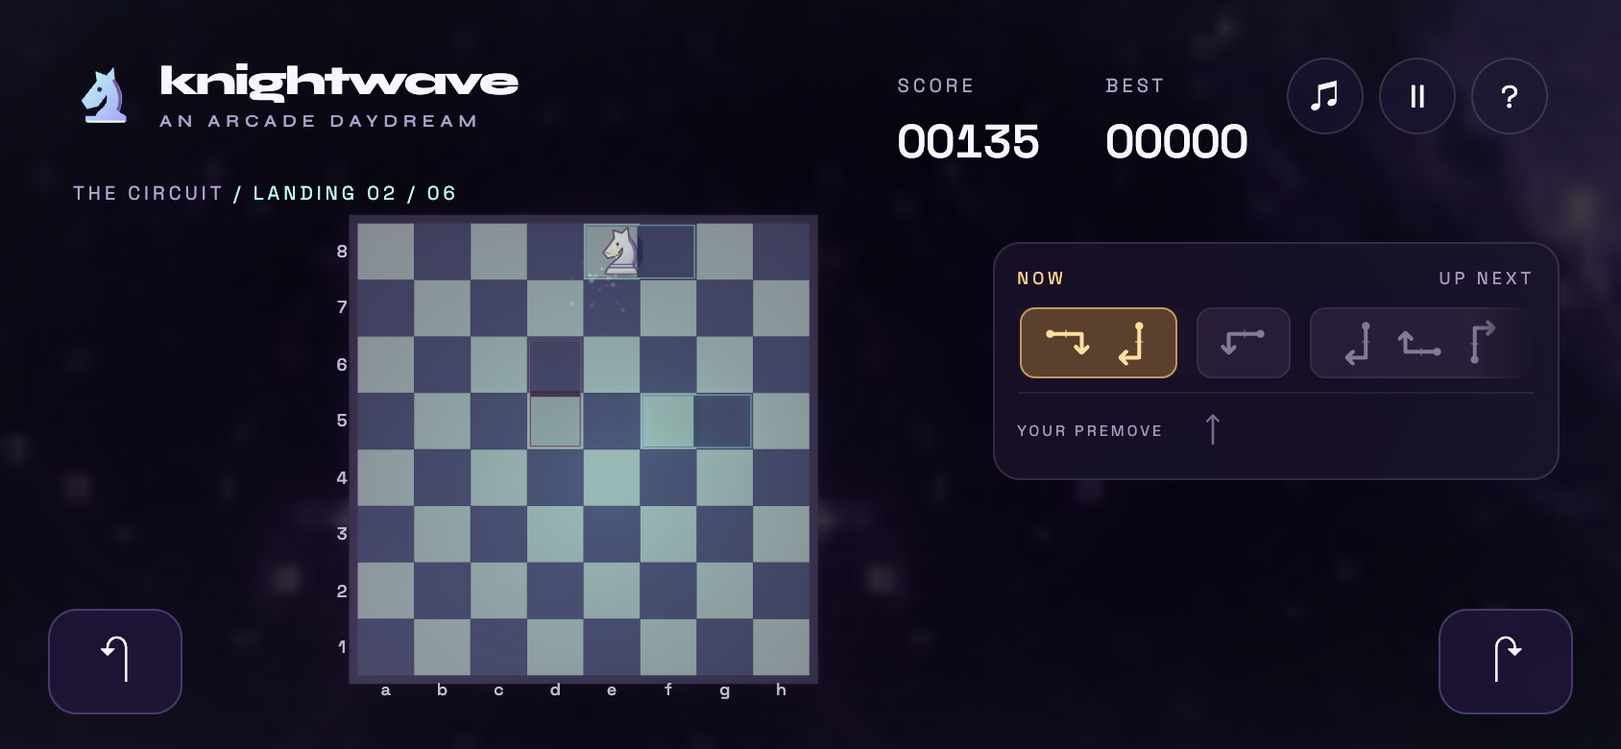
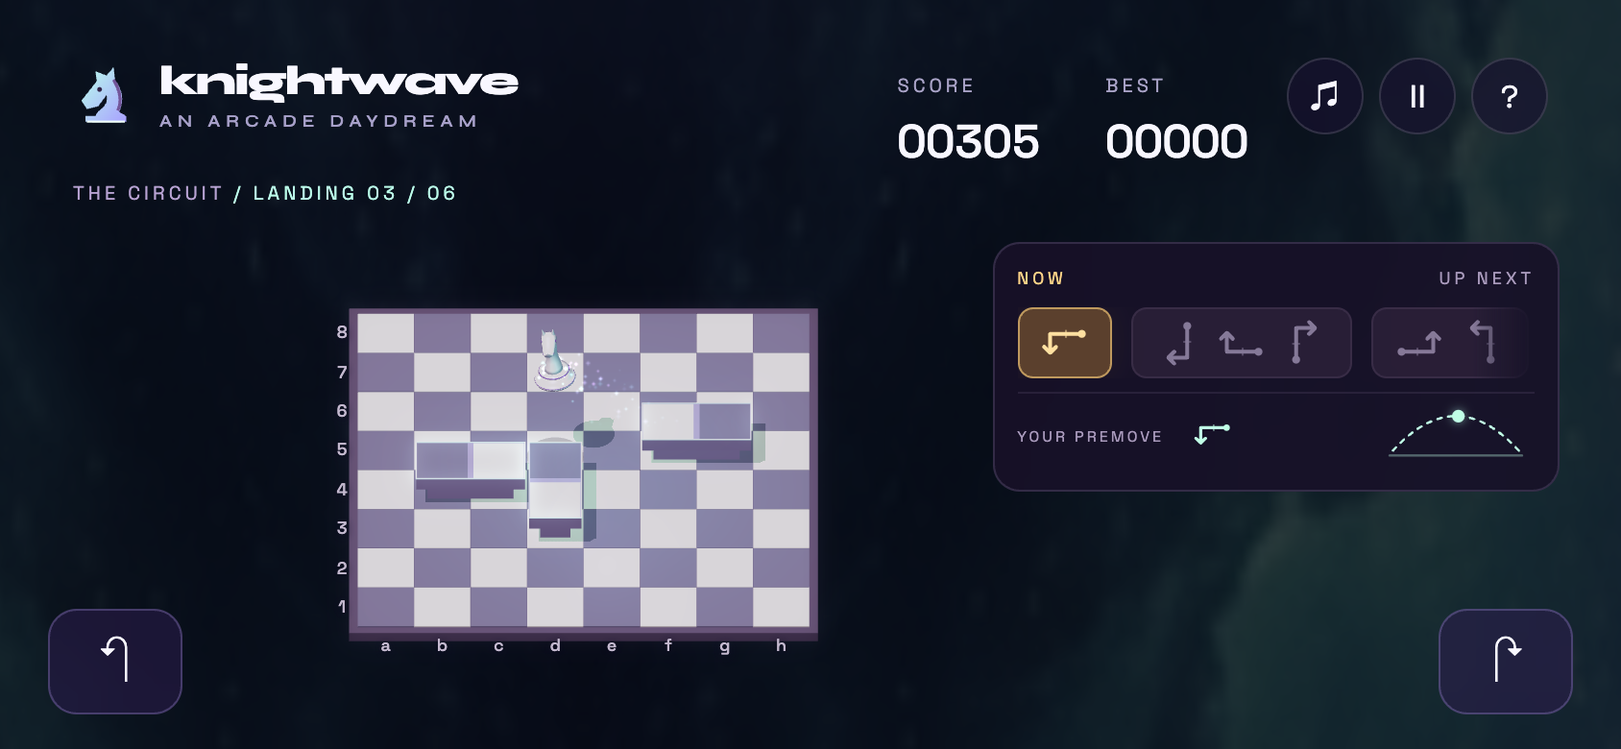
feat(game): restore 3D depth and make airtime visible

diff --git a/src/main.js b/src/main.js
@@ -1,7 +1,7 @@
 import './style.css';
 import { Engine } from '@babylonjs/core/Engines/engine';
 import { Scene } from '@babylonjs/core/scene';
-import { Vector3 } from '@babylonjs/core/Maths/math.vector';
+import { Vector3, Matrix } from '@babylonjs/core/Maths/math.vector';
 import { Color3, Color4 } from '@babylonjs/core/Maths/math.color';
 import { Mesh } from '@babylonjs/core/Meshes/mesh';
 import { MeshBuilder } from '@babylonjs/core/Meshes/meshBuilder';
@@ -9,6 +9,8 @@ import { StandardMaterial } from '@babylonjs/core/Materials/standardMaterial';
 import { Camera } from '@babylonjs/core/Cameras/camera';
 import { FreeCamera } from '@babylonjs/core/Cameras/freeCamera';
 import { HemisphericLight } from '@babylonjs/core/Lights/hemisphericLight';
+import { DirectionalLight } from '@babylonjs/core/Lights/directionalLight';
+import { ShadowGenerator } from '@babylonjs/core/Lights/Shadows/shadowGenerator';
 import { PointLight } from '@babylonjs/core/Lights/pointLight';
 import { GlowLayer } from '@babylonjs/core/Layers/glowLayer';
 import { TransformNode } from '@babylonjs/core/Meshes/transformNode';
@@ -18,16 +20,17 @@ import { knightDestination, isLandingMatch, flightPoint, flightHeading, rotateGr
 import { BOARD_MIN, BOARD_MAX, BOARD_CELLS, BOARD_CENTER, CELL_SIZE, createCircuit } from './board.js';
 import { PLATFORM_TOP, CRUISE_SPEED, platformStage, platformPose } from './platforms.js';
 import { moveGlyphs } from './moves.js';
+import { createKnight } from './knight.js';
 import { Soundtrack } from './audio.js';
 
 const asset=name=>`${import.meta.env.BASE_URL}${name}`;
 const app=document.querySelector('#app');
-app.innerHTML=`<canvas id="world" aria-label="Knightwave overhead chess circuit"></canvas>
+app.innerHTML=`<canvas id="world" aria-label="Knightwave 3D chess circuit"></canvas>
 <div id="ui" class="start-mode">
   <header class="topbar"><div class="brand"><img class="brand-icon" src="${asset('knight-mark.svg')}" alt="" width="35" height="35"><div class="brand-name">knightwave<small>AN ARCADE DAYDREAM</small></div></div><div class="stats"><div class="stat"><small>SCORE</small><strong id="score">00000</strong></div><div class="stat"><small>BEST</small><strong id="best">00000</strong></div></div><div class="utility"><button class="icon-button" id="sound" aria-label="Mute soundtrack" title="Sound on/off (M)">♫</button><button class="icon-button hidden" id="pause" aria-label="Pause game" title="Pause (Esc)">Ⅱ</button><button class="icon-button" id="help" aria-label="How to play" title="How to play">?</button></div></header>
   <section class="center-card" id="start-screen"><div class="eyebrow">CHESS MOVES. COSMIC GROOVES.</div><h1>Ride the<span>knightwave.</span></h1><p class="intro">A little chess. A little foresight.<br>Read the moves. Find the rhythm.<br>Bring your knight back home.</p><button class="primary" id="start">Let’s ride <span>↗</span></button><div class="start-caption">SOUND ON. SHOULDERS DOWN. CHASE THE GLOW.</div></section>
   <div class="run-label hidden" id="run-label">THE CIRCUIT <span> / </span> <span id="jump-label">JUMP 01</span></div>
-  <section id="move-queue" class="move-queue hidden" aria-label="Upcoming knight moves"><div class="queue-heading"><span class="queue-now">NOW</span><span>UP NEXT</span></div><div class="queue-window"><div id="queue-track" class="queue-track"></div></div><div class="premove"><span>YOUR PREMOVE</span><div id="queued-moves" class="queued-moves"></div></div></section>
+  <section id="move-queue" class="move-queue hidden" aria-label="Upcoming knight moves"><div class="queue-heading"><span class="queue-now">NOW</span><span>UP NEXT</span></div><div class="queue-window"><div id="queue-track" class="queue-track"></div></div><div class="premove"><span>YOUR PREMOVE</span><div id="queued-moves" class="queued-moves"></div><svg id="flight-indicator" class="flight-indicator" viewBox="0 0 100 40" role="img" aria-label="Jump progress"><path class="flight-ground" d="M8 33H92"/><path class="flight-arc" d="M10 30Q50 -14 90 30"/><circle id="flight-dot" cx="10" cy="30" r="4"/></svg></div></section>
   <div id="board-labels" class="board-labels" aria-hidden="true"></div>
   <div class="flash" id="flash"></div>
   <div class="touch-controls" id="touch-controls"><button class="turn-button" id="left" aria-label="Rotate knight left">↶</button><button class="turn-button" id="right" aria-label="Rotate knight right">↷</button></div>
@@ -41,14 +44,16 @@ try{engine=new Engine(canvas,true,{preserveDrawingBuffer:false,stencil:true,powe
 engine.setHardwareScalingLevel(1/Math.min(window.devicePixelRatio||1,2));
 scene.imageProcessingConfiguration.toneMappingEnabled=true;scene.imageProcessingConfiguration.exposure=.85;
 scene.clearColor=new Color4(.028,.014,.07,1);scene.fogMode=Scene.FOGMODE_EXP2;scene.fogColor=new Color3(.08,.025,.16);scene.fogDensity=0;
-const camera=new FreeCamera('fixed overhead board',new Vector3(BOARD_CENTER*CELL_SIZE,64,BOARD_CENTER*CELL_SIZE-.0001),scene);camera.minZ=.1;camera.maxZ=1200;camera.mode=Camera.ORTHOGRAPHIC_CAMERA;camera.setTarget(new Vector3(BOARD_CENTER*CELL_SIZE,0,BOARD_CENTER*CELL_SIZE));
-const hemi=new HemisphericLight('soft light',new Vector3(-.4,1,-.4),scene);hemi.intensity=.65;hemi.diffuse=new Color3(.76,.83,1);hemi.groundColor=new Color3(.25,.08,.43);
+const camera=new FreeCamera('fixed front chessboard',new Vector3(BOARD_CENTER*CELL_SIZE,48,BOARD_CENTER*CELL_SIZE-50),scene);camera.minZ=.1;camera.maxZ=1200;camera.mode=Camera.ORTHOGRAPHIC_CAMERA;camera.setTarget(new Vector3(BOARD_CENTER*CELL_SIZE,0,BOARD_CENTER*CELL_SIZE));
+const hemi=new HemisphericLight('soft light',new Vector3(-.4,1,-.4),scene);hemi.intensity=.55;hemi.diffuse=new Color3(.76,.83,1);hemi.groundColor=new Color3(.25,.08,.43);
 const rim=new PointLight('mint rim',new Vector3(0,8,-4),scene);rim.diffuse=new Color3(.3,1,.83);rim.intensity=.45;rim.range=38;
+const sun=new DirectionalLight('soft key light',new Vector3(.35,-1,.3),scene);sun.position.set(-18,40,-18);sun.intensity=.85;sun.diffuse=Color3.FromHexString('#fff2db');
+const shadows=new ShadowGenerator(2048,sun);shadows.usePercentageCloserFiltering=true;shadows.filteringQuality=ShadowGenerator.QUALITY_MEDIUM;shadows.bias=.001;shadows.normalBias=.035;shadows.setDarkness(.3);
 const glow=new GlowLayer('neon',scene,{mainTextureRatio:.4,blurKernelSize:32});glow.intensity=.65;
 function material(name,hex,emission=0){const m=new StandardMaterial(name,scene);m.diffuseColor=Color3.FromHexString(hex);m.emissiveColor=m.diffuseColor.scale(emission);m.specularColor=new Color3(.06,.06,.09);return m;}
 const palette=['#ff72c1','#bf7bff','#8c83ff','#70bdff','#75efee','#a8f9c2','#f8e99c'];
 const roadMats=palette.map((c,i)=>material('rainbow '+i,c,.25));
-const mint=material('mint neon','#8dffe1',1.6),pink=material('pink neon','#fd8bdf',1.5),gold=material('landing gold','#ffb642',.65),white=material('porcelain','#e9fff5',.22),purple=material('mane','#583680',.3);
+const mint=material('mint neon','#8dffe1',1.6),pink=material('pink neon','#fd8bdf',1.5),gold=material('landing gold','#ffb642',.65),white=material('porcelain','#efece5',.06),purple=material('mane','#583680',.3);
 
 // Dedicated sky artwork stays behind the 3D course and planets.
 const sky=MeshBuilder.CreateSphere('world sky',{diameter:1800,segments:32,sideOrientation:Mesh.BACKSIDE},scene);
@@ -62,14 +67,10 @@ const halo=MeshBuilder.CreateTorus('moon halo',{diameter:28,thickness:.28,tessel
 const scenery=new TransformNode('cosmos',scene);planet.parent=planetRing.parent=moon.parent=halo.parent=scenery;
 function box(name,w,h,d,x,y,z,mat,parent){const m=MeshBuilder.CreateBox(name,{width:w,height:h,depth:d},scene);m.position.set(x,y,z);m.material=mat;if(parent)m.parent=parent;return m;}
 
-// The upright vector piece remains recognizable in the overhead chess view.
-const knight=new TransformNode('knight',scene),spinner=new TransformNode('spin',scene);spinner.parent=knight;
-const FORWARD_YAW=Math.PI/2;spinner.rotation.y=FORWARD_YAW;
-const pieceRoot=new TransformNode('readable knight',scene);pieceRoot.parent=knight;
-const piece=MeshBuilder.CreatePlane('chess knight artwork',{width:3.2,height:3.6},scene);piece.parent=pieceRoot;piece.rotation.x=Math.PI/2;piece.position.y=.2;
-const pieceMaterial=new StandardMaterial('porcelain knight artwork',scene),pieceTexture=new Texture(asset('knight-piece.svg'),scene);pieceTexture.hasAlpha=true;
-pieceMaterial.diffuseTexture=pieceTexture;pieceMaterial.emissiveTexture=pieceTexture;pieceMaterial.diffuseColor=Color3.Black();pieceMaterial.emissiveColor=Color3.White();pieceMaterial.disableLighting=true;pieceMaterial.useAlphaFromDiffuseTexture=true;pieceMaterial.backFaceCulling=false;piece.material=pieceMaterial;glow.addExcludedMesh(piece);
-const shadow=MeshBuilder.CreateDisc('hover shadow',{radius:1.1,tessellation:30},scene);shadow.rotation.x=Math.PI/2;shadow.material=material('shadow','#170d37',.1);shadow.material.alpha=.38;shadow.position.y=.035;
+const {knight,spinner}=createKnight(scene,white,purple,mint);
+const FORWARD_YAW=Math.PI/2;
+for(const mesh of knight.getChildMeshes()){shadows.addShadowCaster(mesh);glow.addExcludedMesh(mesh);}
+const shadow=MeshBuilder.CreateDisc('hover shadow',{radius:1.1,tessellation:30},scene);shadow.rotation.x=Math.PI/2;shadow.material=material('shadow','#170d37',.1);shadow.material.alpha=.4;shadow.material.disableLighting=true;shadow.material.diffuseColor=Color3.Black();shadow.material.emissiveColor=Color3.FromHexString('#1a1525');shadow.position.y=.035;glow.addExcludedMesh(shadow);
 const jumpSparkles=new ParticleSystem('jump star glints',500,scene);
 jumpSparkles.particleTexture=new Texture(asset('sparkle.svg'),scene);
 jumpSparkles.emitter=knight.position;
@@ -88,20 +89,21 @@ el('best').textContent=String(best).padStart(5,'0');
 const board=new TransformNode('finite chessboard',scene),boardWidth=BOARD_CELLS*CELL_SIZE;
 const boardCenter=BOARD_CENTER*CELL_SIZE;
 const frame=material('chessboard frame','#46364e',.18);
-box('floating board',boardWidth+1.2,.35,boardWidth+1.2,boardCenter,-2.28,boardCenter,frame,board);
+box('floating board',boardWidth+1.2,.8,boardWidth+1.2,boardCenter,-2.5,boardCenter,frame,board);
 const lightSquare=material('ivory chess square','#ddd4bc',.12),darkSquare=material('plum chess square','#655a76',.06);
 const cells=[];
 for(let z=BOARD_MIN;z<=BOARD_MAX;z++)for(let x=BOARD_MIN;x<=BOARD_MAX;x++){
   const square=box('chess square',CELL_SIZE-.025,.08,CELL_SIZE-.025,x*CELL_SIZE,-2.065,z*CELL_SIZE,(x+z)%2===0?darkSquare:lightSquare,board);
-  square.metadata={x,z};cells.push(square);glow.addExcludedMesh(square);
+  square.receiveShadows=true;square.metadata={x,z};cells.push(square);glow.addExcludedMesh(square);
 }
-const platformMaterials={occupied:material('raised chess platform','#4b5768',.12),falling:material('departed surface','#48263c',.15)};
-const platformAccent=material('platform edge','#89abb6',.35);
+const platformMaterials={occupied:material('raised chess platform','#8a779d',.10),falling:material('departed surface','#48263c',.15)};
+const platformAccent=material('platform edge','#b0e4d5',.55);
 const fallingAccent=material('departed platform rails','#ae6288',.25);
 const platforms=circuit.map((stop,i)=>{
   const root=new TransformNode('platform '+i,scene);root.position.set(stop.x*CELL_SIZE,PLATFORM_TOP,stop.z*CELL_SIZE);root.rotation.y=stop.heading;root.parent=board;
   const length=stop.runLength*CELL_SIZE;
-  const deck=box('raised platform deck',3.7,.68,length+3.7,0,-.34,length/2,platformMaterials.occupied,root);
+  const deck=box('raised platform deck',3.7,1.05,length+3.7,0,-.525,length/2,platformMaterials.occupied,root);
+  box('platform lift column',2.15,1.65,length+2.1,0,-1.86,length/2,platformMaterials.occupied,root);
   const trims=[];
   for(const side of [-1,1])trims.push(box('platform glow rail',.07,.07,length+3.7,side*1.86,.03,length/2,mint,root));
   for(const z of [-1.85,length+1.85])trims.push(box('platform end rail',3.78,.07,.075,0,.03,z,mint,root));
@@ -109,8 +111,9 @@ const platforms=circuit.map((stop,i)=>{
   for(let row=0;row<=stop.runLength;row++){
     const offset=rotateGrid({x:0,z:row},stop.heading),light=(stop.x+offset.x+stop.z+offset.z)%2!==0;
     const square=box('raised chess square',3.58,.025,3.58,0,.01,row*CELL_SIZE,light?lightSquare:darkSquare,root);
-    surfaces.push(square);glow.addExcludedMesh(square);
+    square.receiveShadows=true;surfaces.push(square);glow.addExcludedMesh(square);
   }
+  for(const mesh of root.getChildMeshes())shadows.addShadowCaster(mesh);
   return {root,deck,trims,surfaces,stage:null,age:0};
 });
 function updatePlatforms(dt,reset=false){
@@ -139,9 +142,10 @@ function fitBoardCamera(){
   const halfHeight=halfWidth/aspect;
   const offsetX=(.5-centerX)*2*halfWidth,offsetY=(centerY-.5)*2*halfHeight;
   camera.orthoLeft=-halfWidth+offsetX;camera.orthoRight=halfWidth+offsetX;camera.orthoTop=halfHeight+offsetY;camera.orthoBottom=-halfHeight+offsetY;
-  const screen=(x,z)=>({x:(x-boardCenter-camera.orthoLeft)/(2*halfWidth)*width,y:(camera.orthoTop-(z-boardCenter))/(2*halfHeight)*height});
+  camera.getViewMatrix(true);
+  const screen=(x,z)=>Vector3.Project(new Vector3(x,-2,z),Matrix.Identity(),camera.getViewMatrix().multiply(camera.getProjectionMatrix(true)),camera.viewport.toGlobal(width,height));
   el('board-labels').innerHTML=Array.from({length:8},(_,i)=>{
-    const file=screen((BOARD_MIN+i)*CELL_SIZE,BOARD_MIN*CELL_SIZE-CELL_SIZE/2-1.0),rank=screen(BOARD_MIN*CELL_SIZE-CELL_SIZE/2-1.1,(BOARD_MIN+i)*CELL_SIZE);
+    const file=screen((BOARD_MIN+i)*CELL_SIZE,BOARD_MIN*CELL_SIZE-CELL_SIZE/2-2.0),rank=screen(BOARD_MIN*CELL_SIZE-CELL_SIZE/2-1.1,(BOARD_MIN+i)*CELL_SIZE);
     return `<span style="left:${file.x}px;top:${file.y}px">${String.fromCharCode(97+i)}</span><span style="left:${rank.x}px;top:${rank.y}px">${i+1}</span>`;
   }).join('');
 }
@@ -149,7 +153,7 @@ function visible(id,on){el(id).classList.toggle('hidden',!on);}
 function setMode(next){mode=next;el('ui').className=mode==='start'?'start-mode':'playing-mode';visible('start-screen',mode==='start');visible('pause',mode==='playing'||mode==='paused');visible('run-label',mode!=='start');visible('touch-controls',mode==='playing');visible('move-queue',mode==='playing'||mode==='paused');}
 function start(){
   current=0;lastLanding=null;selected=0;score=0;combo=0;landings=0;runTime=0;jumpTime=0;phaseTime=0;phase='cruise';visualSpin=0;
-  spinner.rotation.set(0,FORWARD_YAW,0);pieceRoot.rotation.y=0;pieceRoot.scaling.setAll(1);tapKick=0;jumpSparkles.reset();jumpSparkles.start();airDuration=1.25;knight.position.copyFrom(worldCell(circuit[0]));
+  spinner.rotation.set(0,FORWARD_YAW,0);knight.scaling.setAll(1.38);tapKick=0;jumpSparkles.reset();jumpSparkles.start();airDuration=1.25;knight.position.copyFrom(worldCell(circuit[0]));
   el('score').textContent='00000';visible('modal',false);setMode('playing');audio.start().catch(()=>{});lastGuideKey='';lastQueueCurrent=-1;updateGuides();updatePlatforms(0,true);fitBoardCamera();
 }
 function chosenCell(){
@@ -174,7 +178,7 @@ function updateGuides(){
 }
 function turn(dir){
   if(mode!=='playing'||!['cruise','air'].includes(phase))return;
-  selected+=dir;spinJuice=1;tapKick=dir*.32;pieceRoot.rotation.y=-dir*.12;
+  selected+=dir;spinJuice=1;tapKick=dir*.32;
   if(phase==='air'){visualSpin+=dir*.80;spinner.rotation.y=FORWARD_YAW+circuit[current].heading+visualSpin;}
   else{spinner.rotation.y=FORWARD_YAW+circuit[current].heading+tapKick;spinner.rotation.z=-dir*.12;}
   audio.spin(selected);updateGuides();
@@ -217,7 +221,7 @@ function update(dt){
     }else if(phase==='air'){
       jumpTime+=dt;const t=Math.min(1,jumpTime/airDuration),p=rotateGrid(flightPoint(selected,t),origin.heading);
       knight.position.x=(origin.launch.x+p.x)*CELL_SIZE;knight.position.z=(origin.launch.z+p.z)*CELL_SIZE;
-      knight.position.y=GROUND+Math.sin(t*Math.PI)*3.0;
+      knight.position.y=GROUND+Math.sin(t*Math.PI)*4.8;
       visualSpin+=wrapAngle(flightHeading(selected,t)-visualSpin)*(1-Math.exp(-dt*24));spinner.rotation.y=FORWARD_YAW+origin.heading+visualSpin;
       spinner.rotation.z=Math.sin(t*Math.PI)*.08*Math.sign(selected);spinner.rotation.x=Math.sin(t*Math.PI)*.12;
       if(t===1){
@@ -233,14 +237,20 @@ function update(dt){
   }
   if(mode==='playing'||mode==='start'||mode==='won'){
     updatePlatforms(dt);
-    pieceRoot.scaling.setAll(phase==='air'?1+Math.sin(Math.min(1,jumpTime/airDuration)*Math.PI)*.18:1);pieceRoot.rotation.y=-tapKick*.3;
+    const t=phase==='air'?Math.min(1,jumpTime/airDuration):0;
+    const squash=phase==='cruise'?Math.max(0,1-phaseTime/.18)*.12:0;
+    knight.scaling.set(1.38*(1+squash/2),1.38*(1-squash),1.38*(1+squash/2));
+    el('flight-dot').setAttribute('cx',String(10+80*t));el('flight-dot').setAttribute('cy',String(30-88*t*(1-t)));
+    el('flight-indicator').classList.toggle('in-air',phase==='air');
     glow.intensity=.43+audio.pulse*.10;
-    shadow.position.set(knight.position.x,PLATFORM_TOP+.018,knight.position.z);shadow.scaling.setAll(Math.max(.6,1.55-(knight.position.y-GROUND)*.10));
-    shadow.setEnabled(phase!=='fall'&&platforms.some((p,i)=>{
+    const abovePlatform=platforms.some((p,i)=>{
       if(!p.root.isEnabled()||p.stage==='falling'||p.root.position.y<PLATFORM_TOP-.1)return false;
       const stop=circuit[i],local=rotateGrid({x:knight.position.x-stop.x*CELL_SIZE,z:knight.position.z-stop.z*CELL_SIZE},-stop.heading);
       return Math.abs(local.x)<1.85&&local.z>-1.85&&local.z<stop.runLength*CELL_SIZE+1.85;
-    }));
+    });
+    const surface=abovePlatform?PLATFORM_TOP+.05:-2.015,altitude=Math.max(0,knight.position.y-surface);
+    shadow.position.set(knight.position.x,surface,knight.position.z);shadow.scaling.setAll(1.38+altitude*.06);
+    shadow.material.alpha=Math.max(.16,.44-altitude*.03);shadow.setEnabled(phase!=='fall');
 
     for(const p of burstPieces){if(p.life>0){p.life-=dt;p.mesh.position.addInPlace(p.velocity.scale(dt));p.velocity.y-=dt*12;p.mesh.scaling.setAll(Math.max(0,p.life/.6));if(p.life<=0)p.mesh.setEnabled(false);}}
     flash=Math.max(0,flash-dt*3.5);el('flash').style.opacity=flash*.35;

diff --git a/src/knight.js b/src/knight.js
@@ -1,0 +1,49 @@
+import { Mesh } from '@babylonjs/core/Meshes/mesh';
+import { MeshBuilder } from '@babylonjs/core/Meshes/meshBuilder';
+import { VertexData } from '@babylonjs/core/Meshes/mesh.vertexData';
+import { TransformNode } from '@babylonjs/core/Meshes/transformNode';
+import { Vector3 } from '@babylonjs/core/Maths/math.vector';
+
+export function createKnight(scene,white,purple,mint){
+// A slender porcelain chess knight, sculpted for every travel direction.
+const knight=new TransformNode('knight',scene),spinner=new TransformNode('spin',scene);spinner.parent=knight;
+const FORWARD_YAW=Math.PI/2;
+// Sculpted elliptical sections give the horse a readable neck, muzzle and
+// paired ears from the rear camera as well as from the side during a turn.
+function sculpt(name,sections,axis){
+  const sides=32,positions=[],indices=[];
+  for(const [along,cx,cy,rx,ry] of sections)for(let i=0;i<sides;i++){
+    const angle=i/sides*Math.PI*2;
+    if(axis==='vertical')positions.push(cx+Math.cos(angle)*rx,along,cy+Math.sin(angle)*ry);
+    else positions.push(along,cx+Math.cos(angle)*rx,cy+Math.sin(angle)*ry);
+  }
+  for(let row=0;row<sections.length-1;row++)for(let i=0;i<sides;i++){
+    const a=row*sides+i,b=row*sides+(i+1)%sides,c=a+sides,d=b+sides;
+    indices.push(a,b,c,b,d,c);
+  }
+  for(const row of [0,sections.length-1])for(let i=1;i<sides-1;i++){
+    if(row===0)indices.push(row*sides,row*sides+i+1,row*sides+i);
+    else indices.push(row*sides,row*sides+i,row*sides+i+1);
+  }
+  const normals=[];VertexData.ComputeNormals(positions,indices,normals);
+  const data=new VertexData();data.positions=positions;data.indices=indices;data.normals=normals;
+  const mesh=new Mesh(name,scene);data.applyToMesh(mesh);mesh.material=white;mesh.parent=spinner;return mesh;
+}
+const neckSections=[[.65,0,0,.53,.48],[.9,.02,0,.50,.43],[1.25,.08,0,.43,.34],[1.65,.08,0,.36,.29],[2.0,-.03,0,.33,.31],[2.3,-.20,0,.30,.36],[2.55,-.25,0,.27,.37],[2.8,-.22,0,.23,.30],[2.96,-.22,0,.16,.22]];
+sculpt('carved chess knight neck',neckSections,'vertical');
+sculpt('sculpted horse muzzle',[[.15,2.78,0,.23,.28],[-.08,2.82,0,.36,.40],[-.38,2.73,0,.30,.38],[-.68,2.55,0,.22,.32],[-1.0,2.43,0,.17,.28],[-1.10,2.43,0,.12,.21]],'horizontal');
+const manePath=neckSections.slice(1).map(([y,x,z,rx])=>new Vector3(x+rx-.015,y,z));
+const mane=MeshBuilder.CreateTube('carved purple mane',{path:manePath,radius:.085,tessellation:12},scene);mane.material=purple;mane.parent=spinner;
+for(const side of [-1,1]){
+  const ear=MeshBuilder.CreateCylinder('pointed horse ear',{height:.48,diameterBottom:.27,diameterTop:.035,tessellation:12},scene);ear.parent=spinner;ear.material=white;ear.position.set(-.12,3.17,side*.25);ear.rotation.z=.18;ear.rotation.x=side*.16;
+  const eye=MeshBuilder.CreateSphere('onyx eye',{diameter:.12,segments:16},scene);eye.parent=spinner;eye.material=purple;eye.scaling.z=.4;eye.position.set(-.4,2.83,side*.365);
+  const nostril=MeshBuilder.CreateSphere('carved nostril',{diameter:.065,segments:12},scene);nostril.parent=spinner;nostril.material=purple;nostril.scaling.z=.4;nostril.position.set(-1.0,2.48,side*.27);
+}
+// Turned, stepped pedestal and collars make the silhouette unmistakably chess.
+const profile=[[0,0],[1.02,0],[1.06,.10],[1.02,.18],[.86,.21],[.86,.30],[.68,.37],[.61,.48],[.62,.55],[.77,.57],[.77,.66],[.57,.71],[0,.71]].map(([r,y])=>new Vector3(r,y,0));
+const base=MeshBuilder.CreateLathe('turned chess pedestal',{shape:profile,tessellation:64,cap:Mesh.CAP_ALL},scene);base.parent=spinner;base.material=white;
+for(const [diameter,y] of [[2.05,.12],[1.55,.61]]){const ring=MeshBuilder.CreateTorus('pedestal inlay',{diameter,thickness:.055,tessellation:64},scene);ring.parent=spinner;ring.position.y=y;ring.material=purple;}
+const baseRing=MeshBuilder.CreateTorus('plinth glow',{diameter:2.02,thickness:.045,tessellation:64},scene);baseRing.parent=spinner;baseRing.position.y=.035;baseRing.material=mint;
+spinner.rotation.y=FORWARD_YAW;knight.scaling.setAll(1.38);
+return {knight,spinner};
+}

diff --git a/index.html b/index.html
@@ -1,2 +1,2 @@
 <!doctype html>
-<html lang="en"><head><meta charset="UTF-8"><meta name="viewport" content="width=device-width, initial-scale=1, viewport-fit=cover"><meta name="theme-color" content="#0b0922"><meta name="description" content="Read the move icons. Premove chained knight jumps across an overhead chessboard and ride the rhythm home."><title>Knightwave — Ride the rhythm</title><link rel="icon" type="image/svg+xml" href="./favicon.svg"></head><body><div id="app"></div><script type="module" src="/src/main.js"></script></body></html>
+<html lang="en"><head><meta charset="UTF-8"><meta name="viewport" content="width=device-width, initial-scale=1, viewport-fit=cover"><meta name="theme-color" content="#0b0922"><meta name="description" content="Read the move icons. Premove chained knight jumps between rising 3D platforms on a chessboard and ride the rhythm home."><title>Knightwave — Ride the rhythm</title><link rel="icon" type="image/svg+xml" href="./favicon.svg"></head><body><div id="app"></div><script type="module" src="/src/main.js"></script></body></html>

diff --git a/src/style.css b/src/style.css
@@ -24,3 +24,6 @@ button,canvas{-webkit-tap-highlight-color:transparent}.track-name{background:#12
 .queue-track{position:relative;transition:transform .24s ease-out}.move-group.consumed{opacity:.2}
 @media(prefers-reduced-motion:reduce){.queue-track{transition:none}}
 @media(max-height:550px) and (orientation:landscape){.run-label{top:94px}}
+
+.flight-indicator{width:82px;height:33px;flex-shrink:0;margin-left:auto;overflow:visible;color:#a99abc;opacity:.5}.flight-indicator path{fill:none;stroke:currentColor;stroke-width:1.5;stroke-linecap:round}.flight-ground{opacity:.35}.flight-arc{stroke-dasharray:3 4}.flight-indicator circle{fill:currentColor}.flight-indicator.in-air{color:#c0ffe6;opacity:1}.flight-indicator.in-air circle{filter:drop-shadow(0 0 3px #baffeb88)}
+@media(max-width:700px){.flight-indicator{width:60px;height:27px}.queued-moves{max-width:160px}}

diff --git a/README.md b/README.md
@@ -1,6 +1,6 @@
 # Knightwave
 
-A playable Babylon.js chess arcade game: an upright illustrated knight, an overhead 8×8 chessboard, rising and falling platforms, a rhythm-style move queue, chained L-shaped jumps, and an original 160 BPM soundtrack.
+A playable Babylon.js chess arcade game: a sculpted 3D knight, a fixed front-facing 8×8 chessboard, rising and falling platforms, a rhythm-style move queue, chained L-shaped jumps, and an original 160 BPM soundtrack.
 
 ## Open in your browser
 
@@ -17,10 +17,10 @@ Open the printed local URL. `npm run build` produces the standalone browser game
 
 ## Play
 
-- Complete six landings and return home on an 8×8 board, viewed straight overhead with a–h and 1–8 coordinates. The a1 square is dark, and rank 1 is at the bottom.
+- Complete six landings and return home on an 8×8 board, viewed from above and in front with a–h and 1–8 coordinates. The a1 square is dark, and rank 1 is at the bottom.
 - Read the move strip above the board. Each icon is one knight L: two squares along the stem, then one across the arrow. Icons are rotated and mirrored in the same directions as the board. Each group represents one jump; the active group appears under NOW and the strip slides forward after landing.
 - Queue Left/Right or A/D during a run-up or in midair. On a phone, use the left/right half of the play area or turn buttons. YOUR PREMOVE shows the L moves you have selected, with immediate feedback.
-- Each tap chains a quarter-turned knight move. Right destinations in grid units are `(1,2)`, `(3,1)`, `(2,-1)`, then `(0,0)`. Left mirrors the horizontal coordinate. The next jump uses the final leg's heading. The piece stays upright and the board stays still.
+- Each tap chains a quarter-turned knight move. Right destinations in grid units are `(1,2)`, `(3,1)`, `(2,-1)`, then `(0,0)`. Left mirrors the horizontal coordinate. The next jump uses the final leg's heading. The 3D piece faces its travel direction and the board stays still.
 - The knight rides along each raised platform at 5.2 world units per second and jumps automatically at its edge. Platforms rise ahead and fall behind. Movement cues live in the icon strip; board trails, target markers, arrows and landing-preview rings have been removed.
 - Opposite taps undo turns, and corrections remain available until touchdown. An unselected jump continues straight and misses its landing.
 - Space starts/pauses; Escape pauses/resumes; M toggles sound. A miss ends the attempt; six correct landings complete the circuit. Both offer immediate retry.
@@ -29,11 +29,11 @@ Open the printed local URL. `npm run build` produces the standalone browser game
 
 ## Graphics and audio
 
-The camera is fixed directly overhead with orthographic projection. The checkerboard uses 64 light/dark squares and standard chess coordinates. Responsive framing keeps the board, move strip and controls apart on desktop, portrait phones and landscape screens.
+The camera is fixed above the front edge at roughly 44 degrees with orthographic projection. Files stay horizontal and ranks stay vertical on screen, so the board keeps its chess orientation while height remains visible. The checkerboard uses 64 light/dark squares and standard chess coordinates. Responsive framing keeps the board, move strip and controls apart on desktop, portrait phones and landscape screens.
 
-`public/knight-piece.svg` is an original vector chess knight adapted from the game's established mark, with a carved mane, eye, muzzle and stepped pedestal. Its texture has explicit high-resolution dimensions for WebGL upload and transparency. The artwork stays upright, grows slightly during a jump and rocks immediately on input. Jump sparkles use a dedicated star texture and particle system. The piece, mark, favicon and L glyphs are hand-drawn vector assets.
+`src/knight.js` builds an original porcelain chess knight from sculpted neck and muzzle sections, paired ears, eyes, a carved mane and a turned pedestal. It rotates with travel, rocks immediately on input and briefly compresses on landing. A directional light casts soft shadows from the knight and decks onto the board; a separate shadow directly beneath the piece makes its ground position readable throughout flight. The 4.8-unit jump arc visibly lifts the whole piece, and a small graphical flight indicator beside the premove strip tracks ascent and descent without revealing a route. Jump sparkles use a dedicated star texture and particle system. The mark, favicon and L glyphs are hand-drawn vector assets; the earlier `public/knight-piece.svg` remains as source artwork.
 
-Four-unit squares, raised decks, actual flight and move icons share a coordinate frame. Platforms rise over 0.85 seconds; departed decks tilt, shrink, fade and disappear after 1.1 seconds. Their surfaces follow the board's checker pattern. Rendering uses the display pixel ratio up to 2×.
+Four-unit squares, raised decks, actual flight and move icons share a coordinate frame. Platforms rise over 0.85 seconds; departed decks tilt, shrink, fade and disappear after 1.1 seconds. Their surfaces follow the board's checker pattern, with thick decks and inset lift columns making elevation visible. Rendering uses the display pixel ratio up to 2×.
 
 `public/cosmic-sky.png` is an original background created with the built-in imagegen tool. Prompt: “Use case: stylized-concept. Asset type: seamless-looking panoramic cosmic sky background texture for a neon rainbow-road 3D arcade game. Create a premium game art starfield, landscape 3:2 composition. Deep midnight navy and aubergine space, delicate faraway stars as fine pinpoints, flowing violet and lavender nebula clouds with a tiny soft teal aurora on the right, subtly shimmering dust. Rich, dreamy, euphoric and uplifting, painterly atmospheric sci-fi game skybox art. Keep overall dark and low contrast so the bright gameplay road reads clearly. Nebula details strongest at outer edges, quieter spacious center. No planets, no road, no characters, no chess pieces, no foreground objects, no typography, no UI, no watermark. Intended to be placed behind separately rendered 3D planets and game graphics.”
 
@@ -43,12 +43,12 @@ The original soundtrack, *Stardust Overdrive*, is synthesized in Web Audio: four
 
 `npm test` checks chained movement, mirrored turns, corrections, exact L trajectories, rotated landing directions, circuit closure, bounded paths, nonintersecting runways, platform rise/fall lifecycles and exact agreement between each rotated/mirrored icon and its physical L legs.
 
-`node verify.mjs` completes the six-jump circuit on desktop and touch-controlled phone viewports. It checks exact landing positions, a fixed overhead camera, an aligned 8×8 board with coordinates, the advancing move queue and premove icons, removal of board route meshes, return to the starting position, victory, midair corrections, run-up and flight pause/resume, sparkles, mute, misses, restart, help, removal of the tap-count overlay and high-resolution phone rendering. It also verifies continuous travel during run-ups and unselected jumps, upcoming platforms rising and departed platforms falling, with motion frozen during pause. The Chrome executable path currently targets macOS.
+`node verify.mjs` completes the six-jump circuit on desktop and touch-controlled phone viewports. It checks exact landing positions, a fixed front-facing camera, an aligned 8×8 board with coordinates, the advancing move queue and premove icons, removal of board route meshes, return to the starting position, victory, midair corrections, run-up and flight pause/resume, a sculpted piece, flight progress, visible ground shadow, sparkles, mute, misses, restart, help, removal of the tap-count overlay and high-resolution phone rendering. It also verifies continuous travel during run-ups and unselected jumps, upcoming platforms rising and departed platforms falling, with motion frozen during pause. The Chrome executable path currently targets macOS.
 
 `node mobilecheck.mjs` checks same-event touch feedback, header controls, landing, pause/resume and landscape layout. Phone browser emulation is not a physical-device benchmark.
 
-`node visualcheck.mjs` plays the complete circuit on desktop and phone, records videos, and captures every jump at launch, middle and landing, plus run-up frames showing platforms rising and falling. Every animation frame checks that the whole board and knight stay visible, the camera remains unchanged, the move strip does not overlap the board and the landing stays on screen. Captures and a JSON report go to `/tmp/knightwave-visual`. Set `KNIGHTWAVE_URL` to check the public deployment with any browser script, and `KNIGHTWAVE_CAPTURES` to change the visual output directory.
+`node visualcheck.mjs` plays the complete circuit on desktop, portrait phone, compact phone and landscape phone layouts, records videos, and captures every jump at launch, middle and landing, plus run-up frames showing platforms rising and falling. Every animation frame checks that the whole board and knight stay visible, the camera remains unchanged, the move strip does not overlap the board or jumping knight and the landing stays on screen. Captures and a JSON report go to `/tmp/knightwave-visual`. Set `KNIGHTWAVE_URL` to check the public deployment with any browser script, and `KNIGHTWAVE_CAPTURES` to change the visual output directory.
 
-Review captures live in `docs/screenshots/`. The game is in `src/main.js`, the board in `src/board.js`, platform animation rules in `src/platforms.js`, move icons in `src/moves.js`, soundtrack in `src/audio.js` and movement rules in `src/rules.js`.
+Review captures live in `docs/screenshots/`. The game is in `src/main.js`, the sculpted knight in `src/knight.js`, the board in `src/board.js`, platform animation rules in `src/platforms.js`, move icons in `src/moves.js`, soundtrack in `src/audio.js` and movement rules in `src/rules.js`.
 
 Optional WebMCP state and rotation tools are feature-detected. This browser does not expose a supported WebMCP context, so WebMCP integration validation is unavailable.
